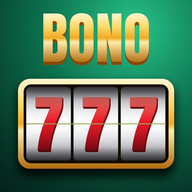
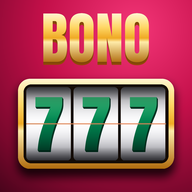
Ícone com paleta mexicana (rosa, verde, branco, dourado)
Claude-Session: https://claude.ai/code/session_01DB1hwh3k7h5r2QrfrMyGQz

diff --git a/sw.js b/sw.js
@@ -1,5 +1,5 @@
 // Service worker mínimo: deixa o app instalável e abre mesmo com internet ruim.
-var CACHE = 'bono600-v13';
+var CACHE = 'bono600-v14';
 var SHELL = ['/', '/manifest.webmanifest', '/icon-192.png', '/hero.jpg'];
 self.addEventListener('install', function (e) {
   e.waitUntil(caches.open(CACHE).then(function (c) { return c.addAll(SHELL); }).then(function () { return self.skipWaiting(); }));
